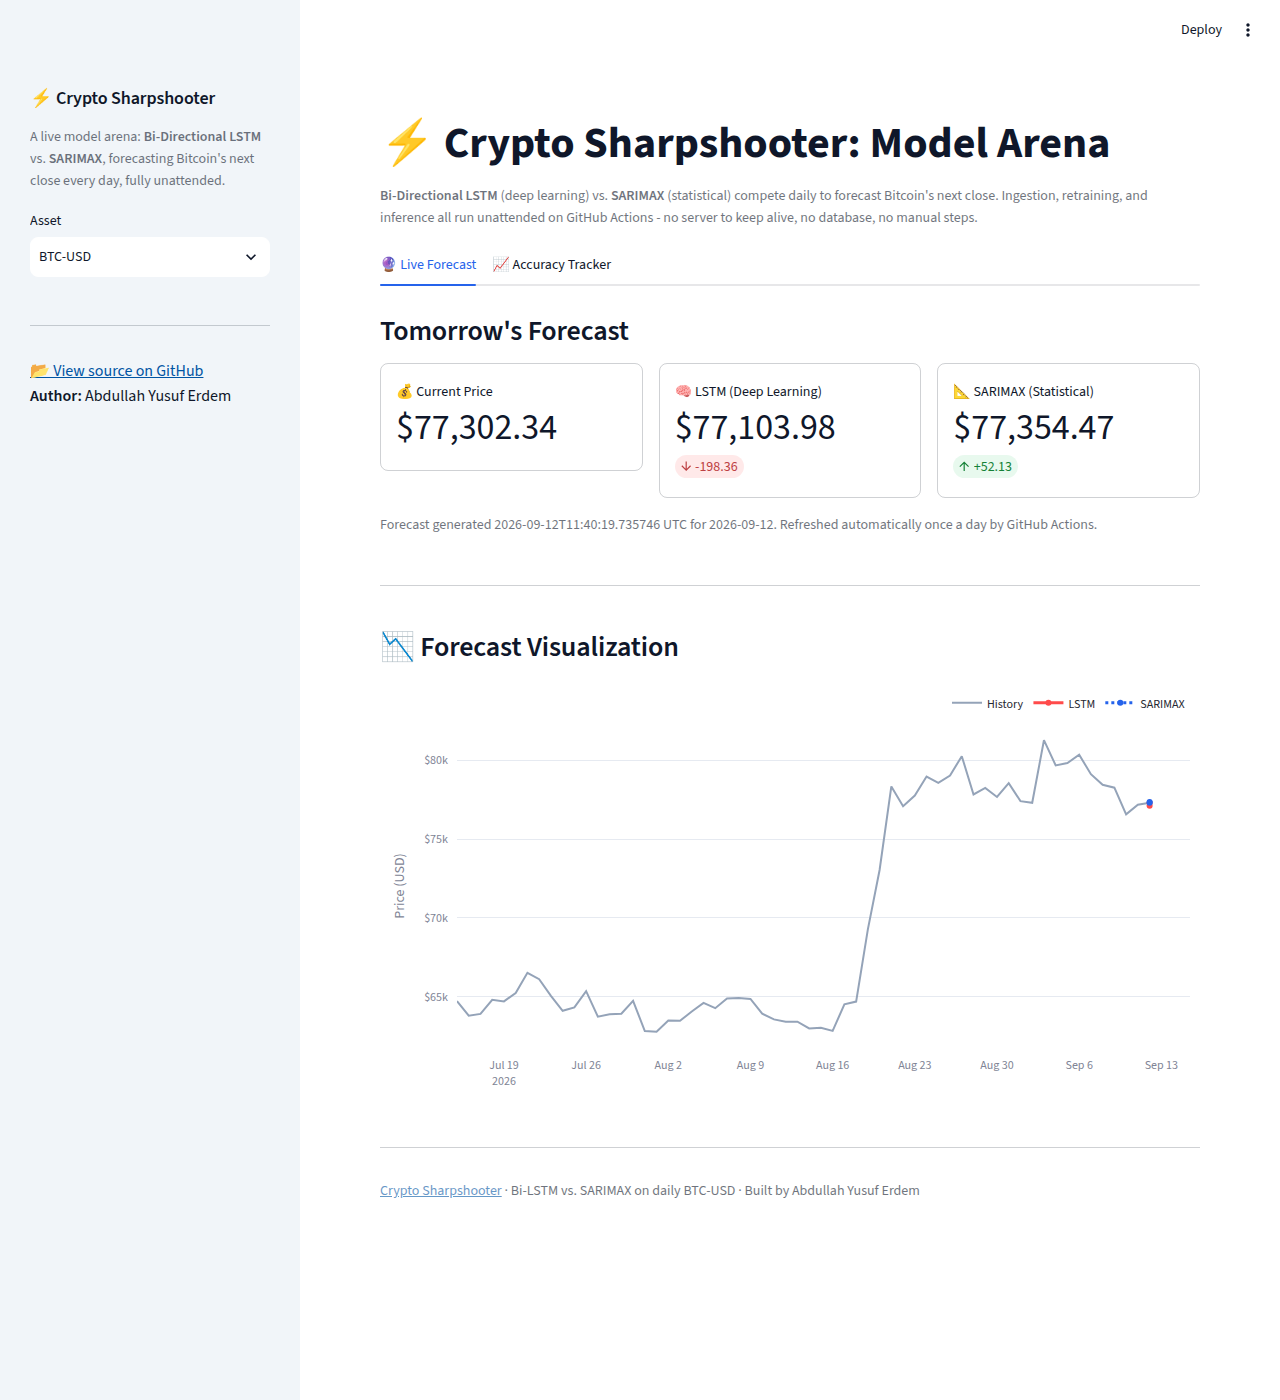
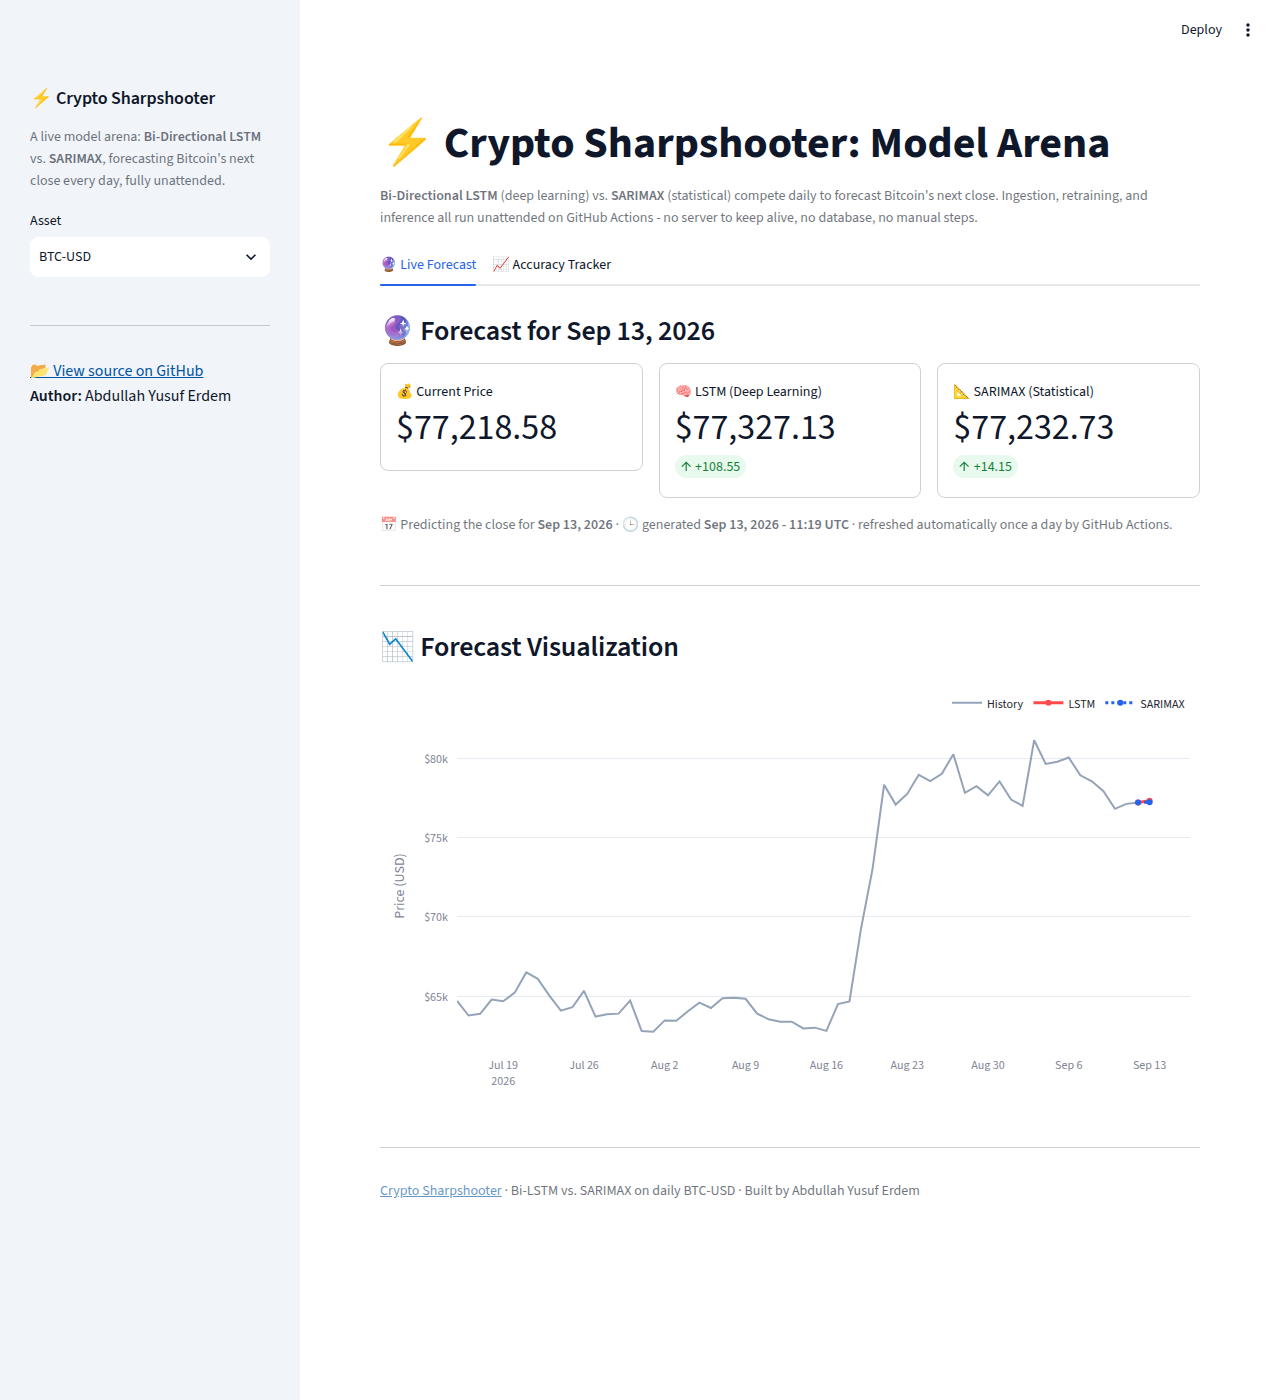
Make the target date and generation time explicit in the dashboard
Both existed in the data already but were easy to misread: the Live
Forecast tab buried them in a small caption, and the Accuracy Tracker
table never showed when a forecast was made at all - just the date it
was for, under a plain "Date" header that's ambiguous between the two.

Now Tab 1 leads with "Forecast for <target date>" as its own subheader,
and the caption below spells out both explicitly ("Predicting the close
for X - generated Y"). Tab 2's table gains a "Predicted At" column
alongside a renamed "Target Date" column, both formatted as readable
dates/timestamps instead of raw ISO strings.

Claude-Session: https://claude.ai/code/session_01QKrxXPCPoLxnnSHoGpDuL8

diff --git a/src/dashboard.py b/src/dashboard.py
@@ -12,6 +12,16 @@ from src.storage import read_table, load_predictions
 
 REPO_URL = "https://github.com/yusuferdem16/CryptoCurrencyPricePredicter"
 
+
+def fmt_date(date_str):
+    """A predicted_date value ('2026-09-13') -> 'Sep 13, 2026' - the day being forecast."""
+    return pd.to_datetime(date_str).strftime("%b %d, %Y")
+
+
+def fmt_timestamp(ts_str):
+    """A timestamp value (UTC, no offset) -> 'Sep 13, 2026 - 11:19 UTC' - when the forecast was made."""
+    return pd.to_datetime(ts_str).strftime("%b %d, %Y - %H:%M UTC")
+
 st.set_page_config(page_title="Crypto Sharpshooter", page_icon="⚡", layout="wide")
 
 # --- Sidebar ---
@@ -65,7 +75,10 @@ else:
 
     # --- TAB 1: The Live Forecast ---
     with tab1:
-        st.subheader("Tomorrow's Forecast")
+        if lstm_pred:
+            st.subheader(f"🔮 Forecast for {fmt_date(lstm_pred['predicted_date'])}")
+        else:
+            st.subheader("🔮 Forecast")
 
         col1, col2, col3 = st.columns(3)
         with col1:
@@ -90,8 +103,9 @@ else:
 
         if lstm_pred and sarimax_pred:
             st.caption(
-                f"Forecast generated {lstm_pred['timestamp']} UTC for {lstm_pred['predicted_date']}. "
-                "Refreshed automatically once a day by GitHub Actions."
+                f"📅 Predicting the close for **{fmt_date(lstm_pred['predicted_date'])}** · "
+                f"🕒 generated **{fmt_timestamp(lstm_pred['timestamp'])}** · "
+                "refreshed automatically once a day by GitHub Actions."
             )
 
             st.divider()
@@ -143,8 +157,10 @@ else:
                 return f"{x:.2f}%" if pd.notnull(x) else "—"
 
             mape_numeric = df_preds["mape"]
-            display_df = df_preds[["predicted_date", "model_version", "predicted_price", "actual_price", "mae", "mape"]].copy()
-            display_df.columns = ["Date", "Model", "Predicted", "Actual", "MAE", "MAPE"]
+            display_df = df_preds[["timestamp", "predicted_date", "model_version", "predicted_price", "actual_price", "mae", "mape"]].copy()
+            display_df.columns = ["Predicted At", "Target Date", "Model", "Predicted", "Actual", "MAE", "MAPE"]
+            display_df["Predicted At"] = display_df["Predicted At"].map(fmt_timestamp)
+            display_df["Target Date"] = display_df["Target Date"].map(fmt_date)
             display_df["Predicted"] = display_df["Predicted"].map(fmt_price)
             display_df["Actual"] = display_df["Actual"].map(fmt_price)
             display_df["MAE"] = display_df["MAE"].map(fmt_price)
